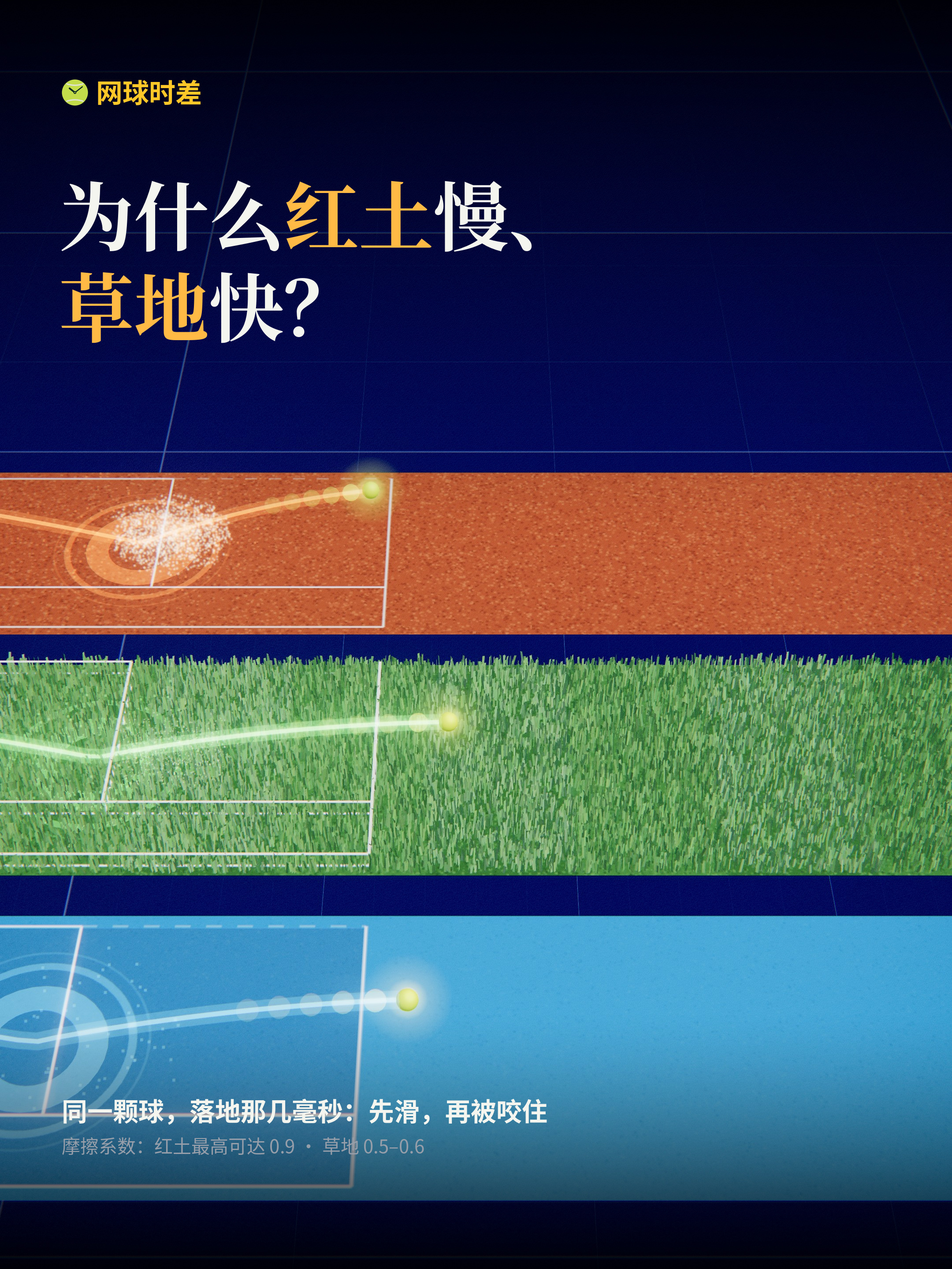
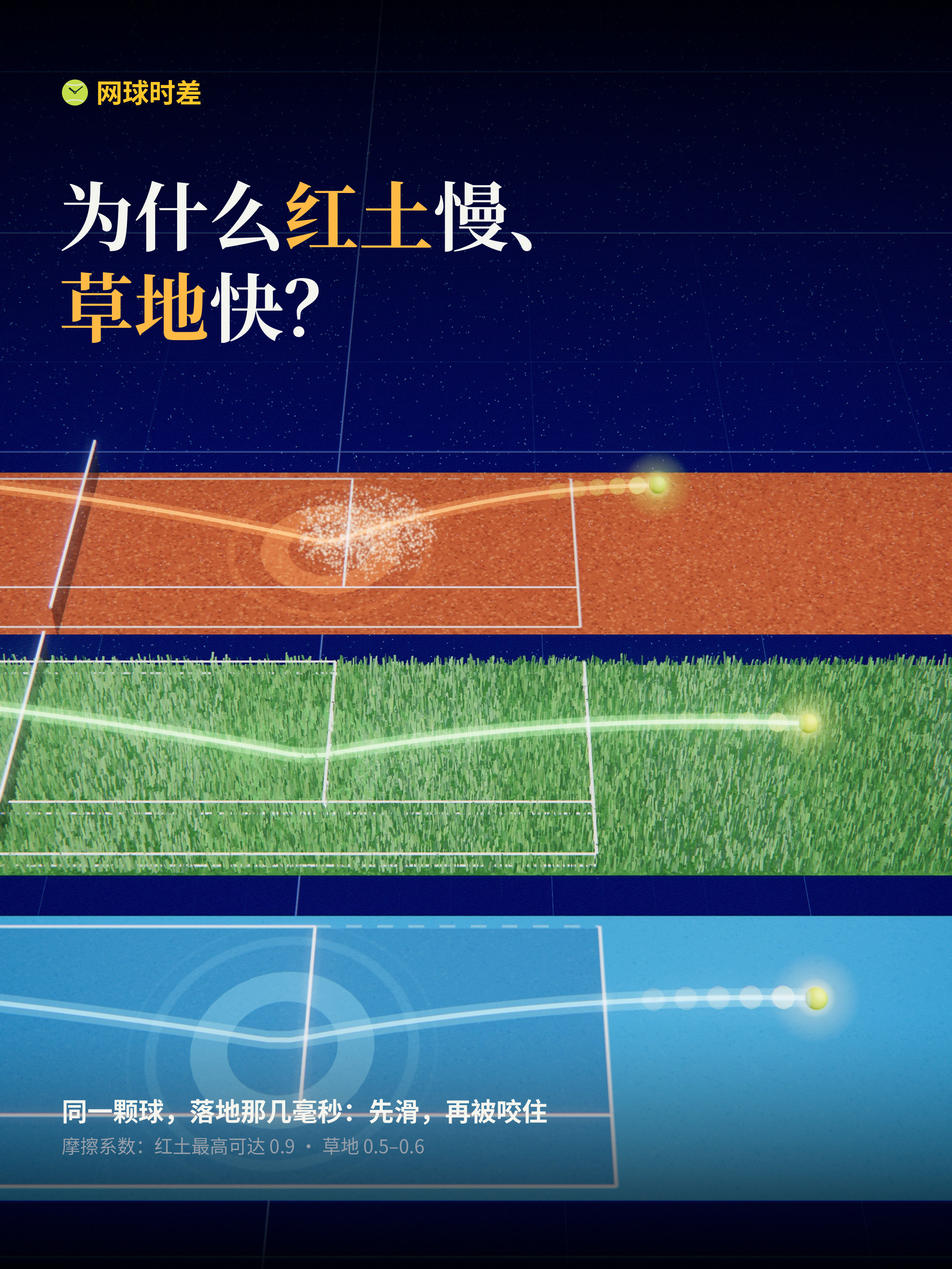
EP05 中文版第二版：全片重渲（地球变高度飞行、场馆高机位、温网/澳网/美网模型、摩擦段改稿重配音，210 s），Release 附件按 replace 登记替换；删 pushed.json 以重推
Claude-Session: https://claude.ai/code/session_011V3sK5yxYXvgeHo64wnqUL

Changed region(s): [[0.0, 0.3125, 1.0, 0.9375]]

diff --git a/output/2026-11-02/vibetennis/vibetennis-court-speed-2026/copy.html b/output/2026-11-02/vibetennis/vibetennis-court-speed-2026/copy.html
@@ -250,7 +250,7 @@ textarea { display: block; width: 100%; resize: vertical; border: 1px solid var(
 
 同一颗球、同样的速度，砸向红土、草地和硬地，弹出来的是三个完全不同的球。所以一年四个大满贯，打起来像四种比赛——纳达尔在法网的红土上拿了14个冠军。
 
-秘密藏在落地那几毫秒里：球一碰地，底部先往前滑，摩擦把它拖住，很快就被地面&quot;咬住&quot;。这一下决定球离地时还剩多少水平速度；另一半是弹性，地面把球往上顶回去多少。
+秘密藏在落地那几毫秒里：球一碰地，底部先往前滑，摩擦把它往回拖：摩擦够大，底部就被地面&quot;咬住&quot;；不够大，就一路滑过去。这一下决定球离地时还剩多少水平速度；另一半是弹性，地面把球往上顶回去多少。
 
 球斜着落地时，红土的摩擦系数最高能到0.9：表面那层细沙，对球员的鞋像滚珠，对球的绒毛却像砂纸；球还会在土里砸出小坑，被顶得更高。温网草地的摩擦只有0.5到0.6，球贴着地面往前窜，又低又快。
 
